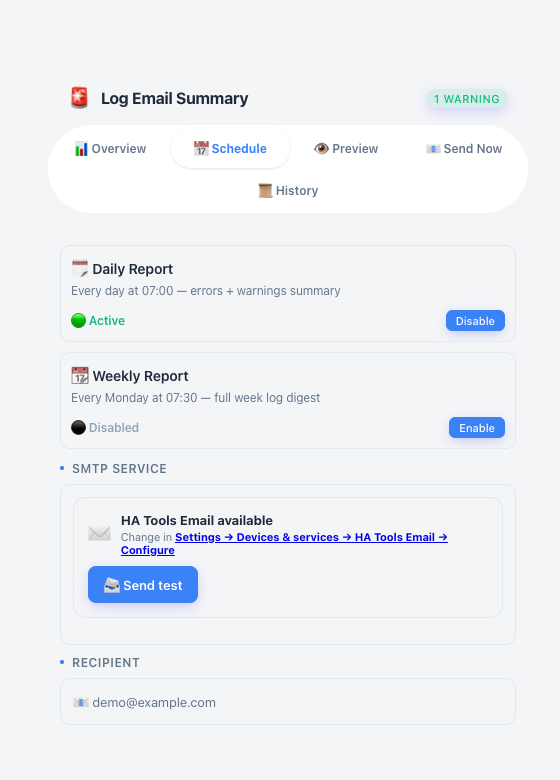
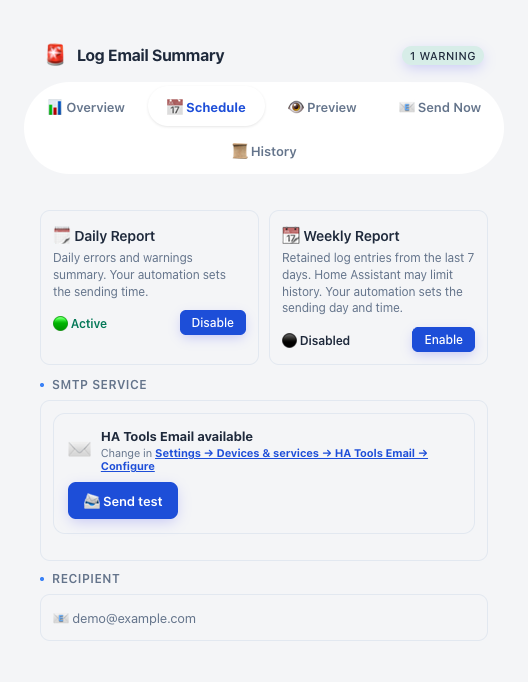
fix(log-email): improve readable controls in both themes

diff --git a/ha-tools-email-reports.js b/ha-tools-email-reports.js
@@ -1,7 +1,7 @@
 /* GENERATED FILE — DO NOT EDIT
  * HA Tools Email Reports bundle v4.5.1
  * ha-energy-email.js — MacSiem/ha-tools-email-reports/ha-energy-email.js v4.5.1 sha256:4ff06726650fff4720ea27af63aacb5839c1afd1f9acd254ee82cf90a653045b
- * ha-log-email.js — MacSiem/ha-tools-email-reports/ha-log-email.js v4.4.1 sha256:d7684109ca0937edea3957bc87ee6a8b69271d68f25ee90fd353dc2a5bff3415
+ * ha-log-email.js — MacSiem/ha-tools-email-reports/ha-log-email.js v4.4.1 sha256:e76e1d03a4d0c2dac2d1fccbbb84ea1fc30c57f91800d73a91ac405ad4b4d585
  * ha-smart-reports.js — MacSiem/ha-smart-reports/ha-smart-reports.js v4.0.1 sha256:48e2e89e04cf4b5d5c4056d6e70c7921ff2e9f0851b741a10fc94de3ce997c51
  */
 /* HA Tools split — ha-energy-email compatibility shim v4.5.1 (2026-09-29) */
@@ -1637,6 +1637,35 @@ max: 3</pre>
         }
       
 
+/* Text controls use readable foregrounds in both HA themes. Muted colour is
+   reserved for disabled controls, not the current schedule state or links. */
+:host {
+  --log-email-action-bg: #1d4ed8;
+  --log-email-link: #1d4ed8;
+  --log-email-error: #b91c1c;
+  --log-email-warning: #92400e;
+  --log-email-success: #047857;
+}
+:host(.bento-dark) {
+  --log-email-action-bg: #4338ca;
+  --log-email-link: #c7d2fe;
+  --log-email-error: #fecaca;
+  --log-email-warning: #fde68a;
+  --log-email-success: #a7f3d0;
+}
+.content a, .content a:visited, .tab-btn.active, .tab-btn:hover,
+.setup-steps pre, .send-status.sending, .info-badge { color: var(--log-email-link); }
+.content a { text-decoration: underline; }
+.tab-btn.active, .tab-btn:hover { color: var(--log-email-link) !important; }
+.toggle-btn, .send-btn, .send-btn:hover, .refresh-btn:hover {
+  background: var(--log-email-action-bg); color: #fff;
+}
+.toggle-btn:hover { opacity: 1; }
+.status-on, .badge-ok, .send-status.success { color: var(--log-email-success); }
+.badge-er, .error-domain, .error-badge, .send-status.error { color: var(--log-email-error); }
+.warn-domain, .warn-badge { color: var(--log-email-warning); }
+.status-off, .log-time, .last-updated, .stat-sub { color: var(--bento-text); }
+.header-badge { color: var(--bento-text) !important; }
 </style>
 
       <ha-card class="card">

diff --git a/ha-log-email.js b/ha-log-email.js
@@ -1506,6 +1506,35 @@ max: 3</pre>
         }
       
 
+/* Text controls use readable foregrounds in both HA themes. Muted colour is
+   reserved for disabled controls, not the current schedule state or links. */
+:host {
+  --log-email-action-bg: #1d4ed8;
+  --log-email-link: #1d4ed8;
+  --log-email-error: #b91c1c;
+  --log-email-warning: #92400e;
+  --log-email-success: #047857;
+}
+:host(.bento-dark) {
+  --log-email-action-bg: #4338ca;
+  --log-email-link: #c7d2fe;
+  --log-email-error: #fecaca;
+  --log-email-warning: #fde68a;
+  --log-email-success: #a7f3d0;
+}
+.content a, .content a:visited, .tab-btn.active, .tab-btn:hover,
+.setup-steps pre, .send-status.sending, .info-badge { color: var(--log-email-link); }
+.content a { text-decoration: underline; }
+.tab-btn.active, .tab-btn:hover { color: var(--log-email-link) !important; }
+.toggle-btn, .send-btn, .send-btn:hover, .refresh-btn:hover {
+  background: var(--log-email-action-bg); color: #fff;
+}
+.toggle-btn:hover { opacity: 1; }
+.status-on, .badge-ok, .send-status.success { color: var(--log-email-success); }
+.badge-er, .error-domain, .error-badge, .send-status.error { color: var(--log-email-error); }
+.warn-domain, .warn-badge { color: var(--log-email-warning); }
+.status-off, .log-time, .last-updated, .stat-sub { color: var(--bento-text); }
+.header-badge { color: var(--bento-text) !important; }
 </style>
 
       <ha-card class="card">

diff --git a/CHANGELOG.md b/CHANGELOG.md
@@ -2,6 +2,8 @@
 
 ## [4.5.1] - Unreleased
 
+- Keep schedule states, SMTP settings links, report badges and action labels readable in light and dark themes.
+
 - Keep log email excerpts valid UTF-8 when the 200 UTF-16-unit limit crosses an emoji; retain escaping and replace malformed input surrogates.
 
 - Use the Home Assistant profile language for Log Email and vendored Smart Reports. Translate Smart Reports views and correct Polish log counts such as “1 błąd” and “2 błędy” without changing report data or export fields.
